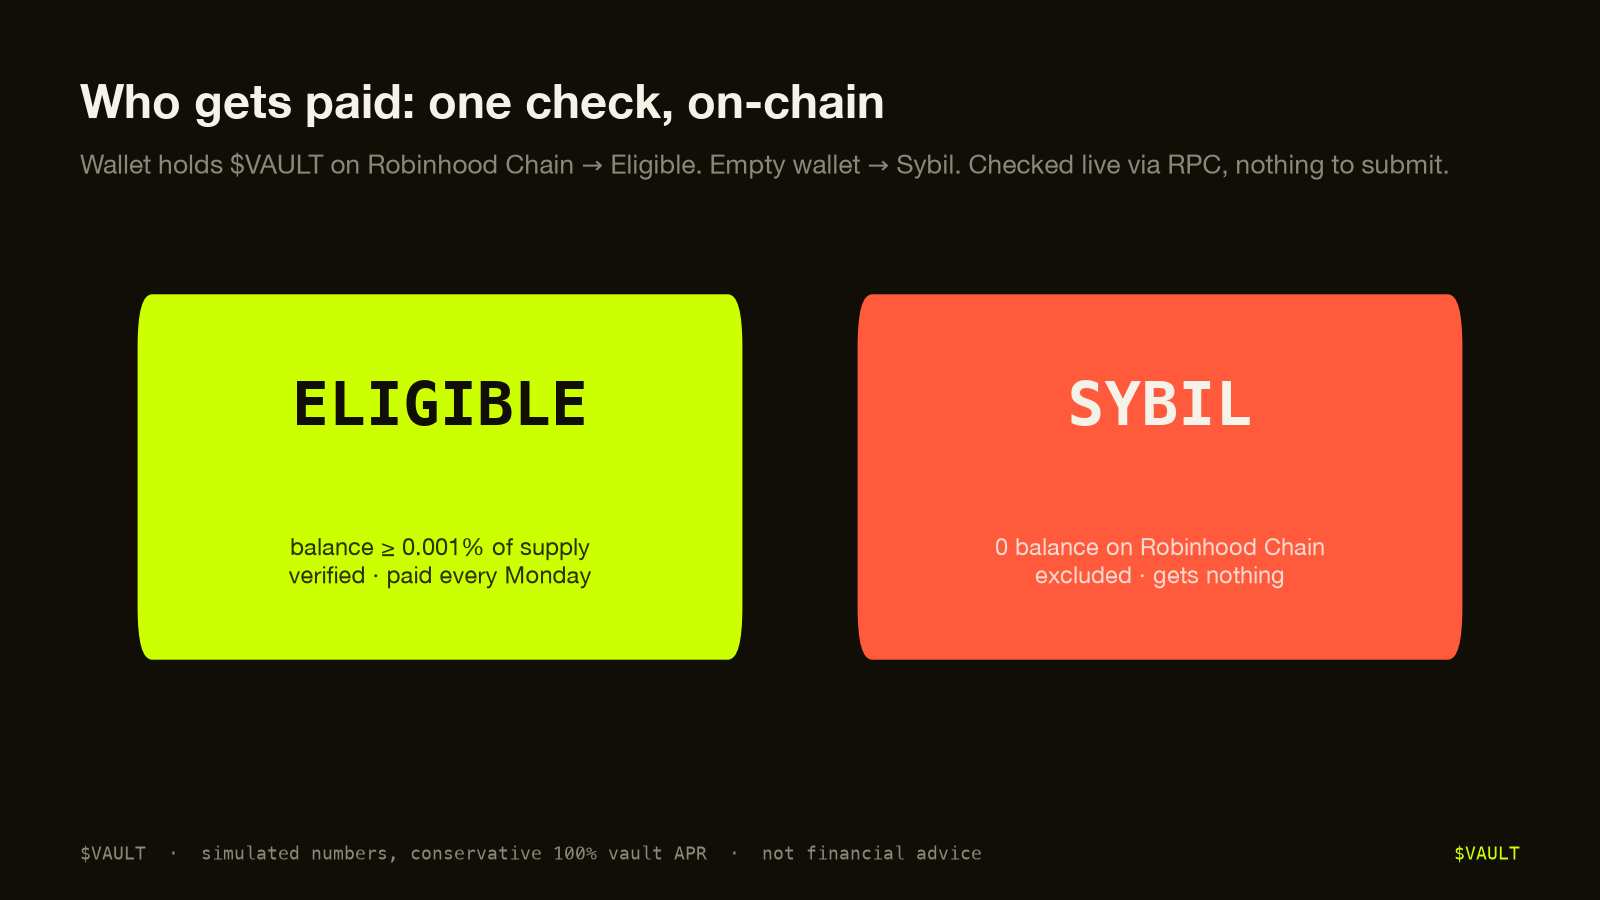
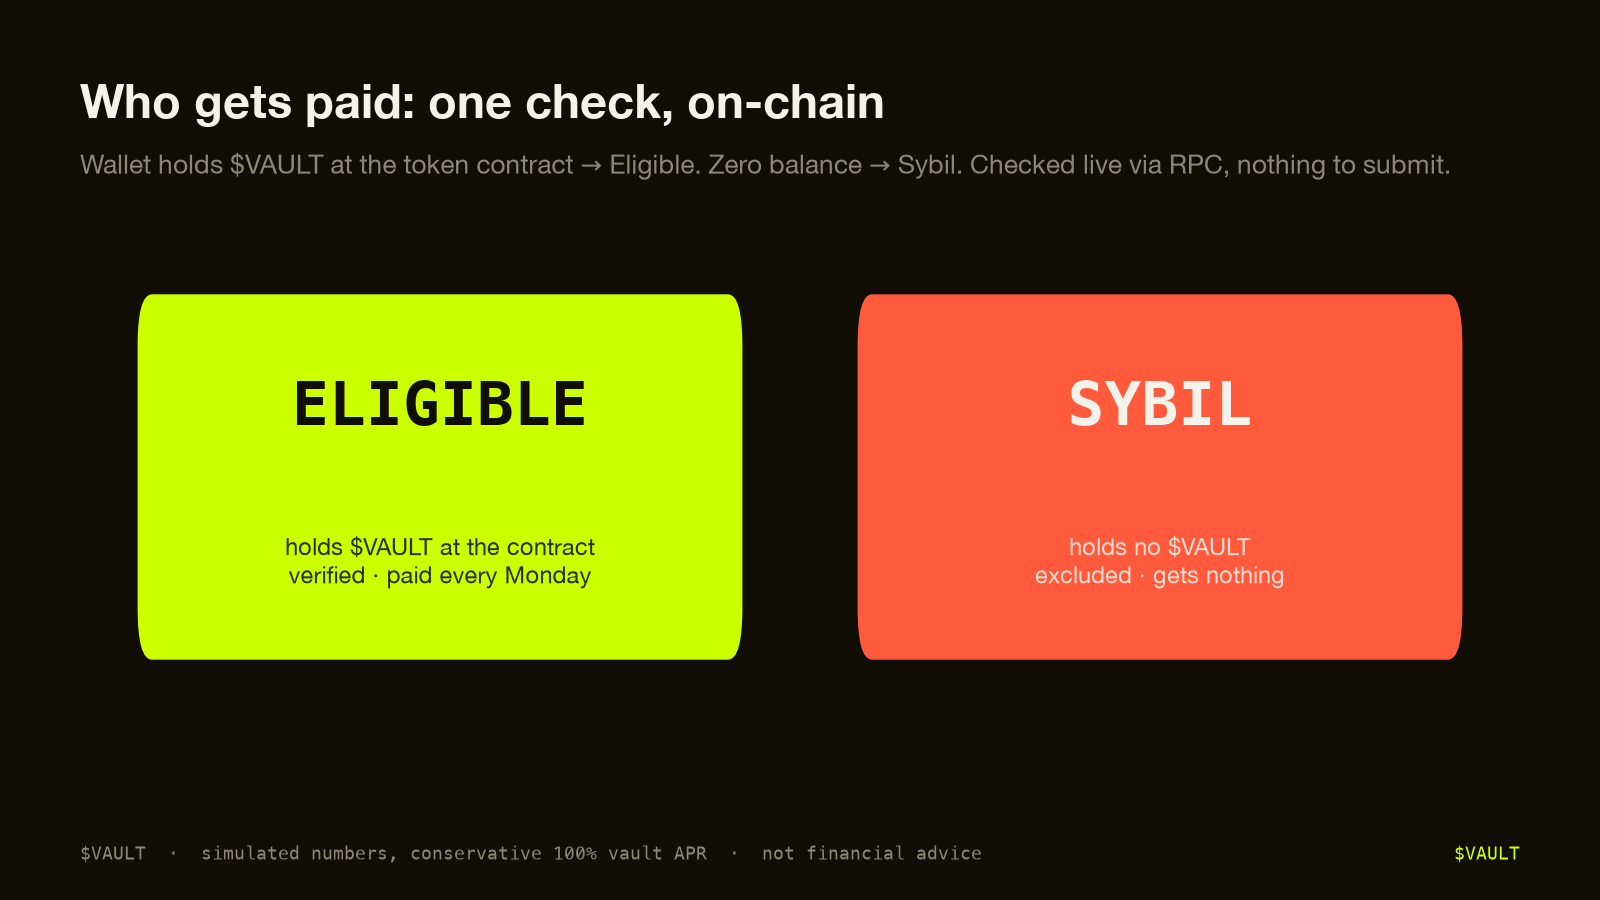
Holder check: single contract-balance row

diff --git a/chain.js b/chain.js
@@ -1,5 +1,5 @@
 /* Real on-chain data via JSON-RPC (no simulation):
-   - Holder score: eth_call balanceOf / totalSupply / decimals → pass if balance ≥ 0.001% of supply
+   - Holder score: eth_call balanceOf at the token contract → pass if the wallet holds any $VAULT
    - Holder scan: eth_getLogs Transfer events → scanned (ever received), verified (balance > 0 now), excluded (difference) */
 (function () {
   'use strict';
@@ -41,21 +41,18 @@
     if (!url) { title.textContent = 'RPC not configured'; title.className = 'v'; return; }
     title.textContent = 'Checking on-chain…'; title.className = 'v';
     try {
-      let bal, sup, dec, pct, holding, pass, unit;
-      if (isAddr(tk)) {                                   // token mode: $VAULT balance vs supply
-        const [balHex, supHex, decHex] = await Promise.all([call(url, tk, SEL.balanceOf + pad(a)), call(url, tk, SEL.totalSupply), call(url, tk, SEL.decimals).catch(() => '0x12')]);
-        bal = BigInt(balHex); sup = BigInt(supHex); dec = parseInt(decHex, 16) || 18; unit = 'VAULT';
-        if (sup === 0n) throw new Error('totalSupply is 0');
-        pct = Number(bal * 100000000n / sup) / 1000000; holding = bal > 0n; pass = pct >= 0.001;
-      } else {                                            // wallet mode: native balance on Robinhood Chain
-        bal = BigInt(await rpc(url, 'eth_getBalance', [a, 'latest'])); dec = 18; unit = 'ETH'; sup = 0n;
-        holding = bal > 0n; pass = holding; pct = null;
+      let bal, dec, unit;
+      if (isAddr(tk)) {                                   // token balance at the $VAULT contract
+        const [balHex, decHex] = await Promise.all([call(url, tk, SEL.balanceOf + pad(a)), call(url, tk, SEL.decimals).catch(() => '0x12')]);
+        bal = BigInt(balHex); dec = parseInt(decHex, 16) || 18; unit = 'VAULT';
+      } else {                                            // contract not deployed yet: native balance on Robinhood Chain
+        bal = BigInt(await rpc(url, 'eth_getBalance', [a, 'latest'])); dec = 18; unit = 'ETH';
       }
-      setRow('hold', holding ? 'ok' : 'bad', holding ? fmtBig(bal, dec) + ' ' + unit : '0 ' + unit);
-      setRow('min', pass ? 'ok' : 'bad', pct === null ? (pass ? 'funded wallet' : 'empty wallet') : pct.toFixed(4) + '%');
-      setRow('cluster', 'ok', 'clear');                                  // v0.1: balance is the only gate
+      const pass = bal > 0n;
+      setRow('hold', pass ? 'ok' : 'bad', fmtBig(bal, dec) + ' ' + unit);
+      setRow('cluster', 'ok', 'clear');                                  // v0.1: the token balance is the only gate
       setRow('activity', 'ok', 'clear');
-      const score = pass ? 100 : holding ? 40 : 0;
+      const score = pass ? 100 : 0;
       const ring = $('#scoreRing'); ring.style.setProperty('--p', score); ring.style.setProperty('--ring', pass ? 'var(--lime)' : 'var(--red)');
       $('#scoreVal').textContent = score; $('#scoreVal').className = 'mono ' + (pass ? 'lime' : 'red');
       title.textContent = pass ? 'Eligible' : 'Sybil';

diff --git a/index.html b/index.html
@@ -308,8 +308,7 @@
             </div>
           </div>
           <ul class="criteria" id="criteria">
-            <li data-key="hold"><span class="crit__ico"></span><span>Holding $VAULT right now</span><span class="mono crit__val">—</span></li>
-            <li data-key="min"><span class="crit__ico"></span><span>Balance ≥ 0.001% of supply</span><span class="mono crit__val">—</span></li>
+            <li data-key="hold"><span class="crit__ico"></span><span>Holds $VAULT at the token contract</span><span class="mono crit__val">—</span></li>
             <li data-key="cluster"><span class="crit__ico"></span><span>Not funded from a known cluster</span><span class="mono crit__val">—</span></li>
             <li data-key="activity"><span class="crit__ico"></span><span>Organic on-chain activity</span><span class="mono crit__val">—</span></li>
           </ul>

diff --git a/charts/gen_charts.py b/charts/gen_charts.py
@@ -90,9 +90,9 @@ ax.set_ylim(0, 1850); ax.text(0, 1600, "in USDC, for that one week.\nHold less t
 save(f, "05_per_holder.png")
 
 # 06 holder check: eligible vs sybil
-f = fig("Who gets paid: one check, on-chain", "Wallet holds $VAULT on Robinhood Chain → Eligible. Empty wallet → Sybil. Checked live via RPC, nothing to submit.")
+f = fig("Who gets paid: one check, on-chain", "Wallet holds $VAULT at the token contract → Eligible. Zero balance → Sybil. Checked live via RPC, nothing to submit.")
 ax = f.add_axes([0.05, 0.18, 0.9, 0.58]); ax.set_xlim(0, 100); ax.set_ylim(0, 10); ax.axis("off")
-for x, col, tcol, head, sub in [(4, LIME, BG, "ELIGIBLE", "balance ≥ 0.001% of supply\nverified · paid every Monday"), (54, RED, TEXT, "SYBIL", "0 balance on Robinhood Chain\nexcluded · gets nothing")]:
+for x, col, tcol, head, sub in [(4, LIME, BG, "ELIGIBLE", "holds $VAULT at the contract\nverified · paid every Monday"), (54, RED, TEXT, "SYBIL", "holds no $VAULT\nexcluded · gets nothing")]:
     ax.add_patch(FancyBboxPatch((x, 1.5), 42, 7, boxstyle="round,pad=0,rounding_size=1", fc=col, ec="none"))
     ax.text(x + 21, 6.3, head, ha="center", va="center", fontsize=44, fontweight="bold", color=tcol, family=MONO)
     ax.text(x + 21, 3.4, sub, ha="center", va="center", fontsize=17, color=tcol, alpha=.85)
